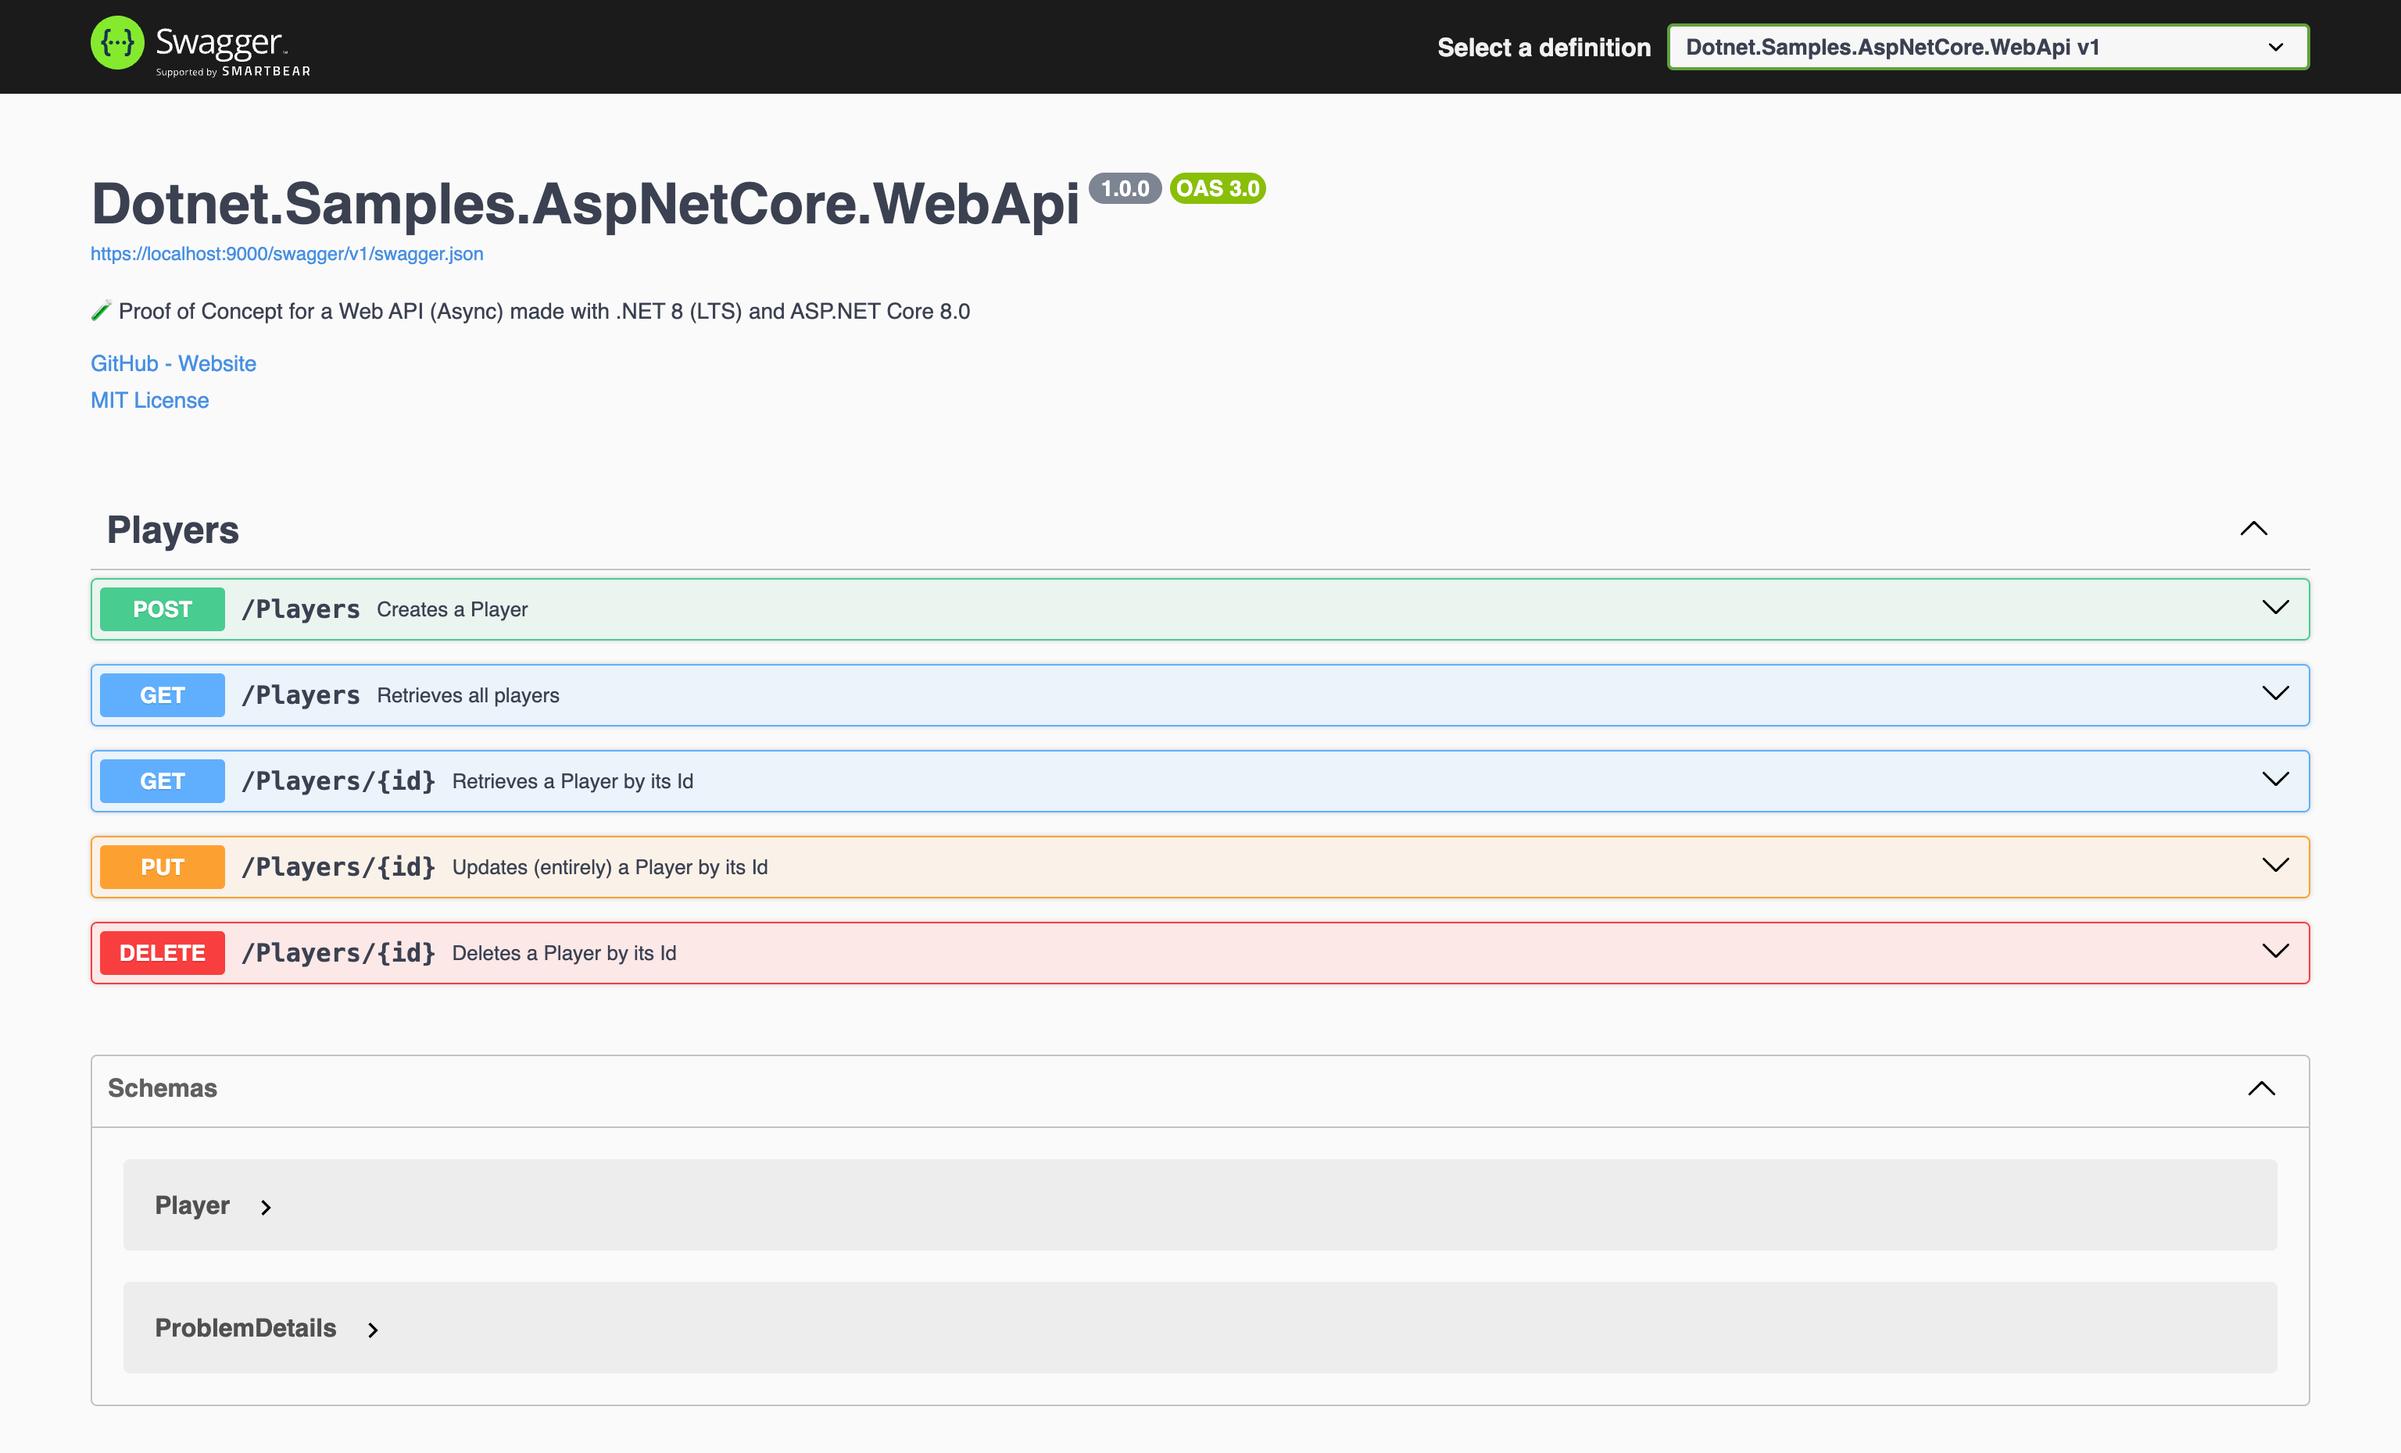
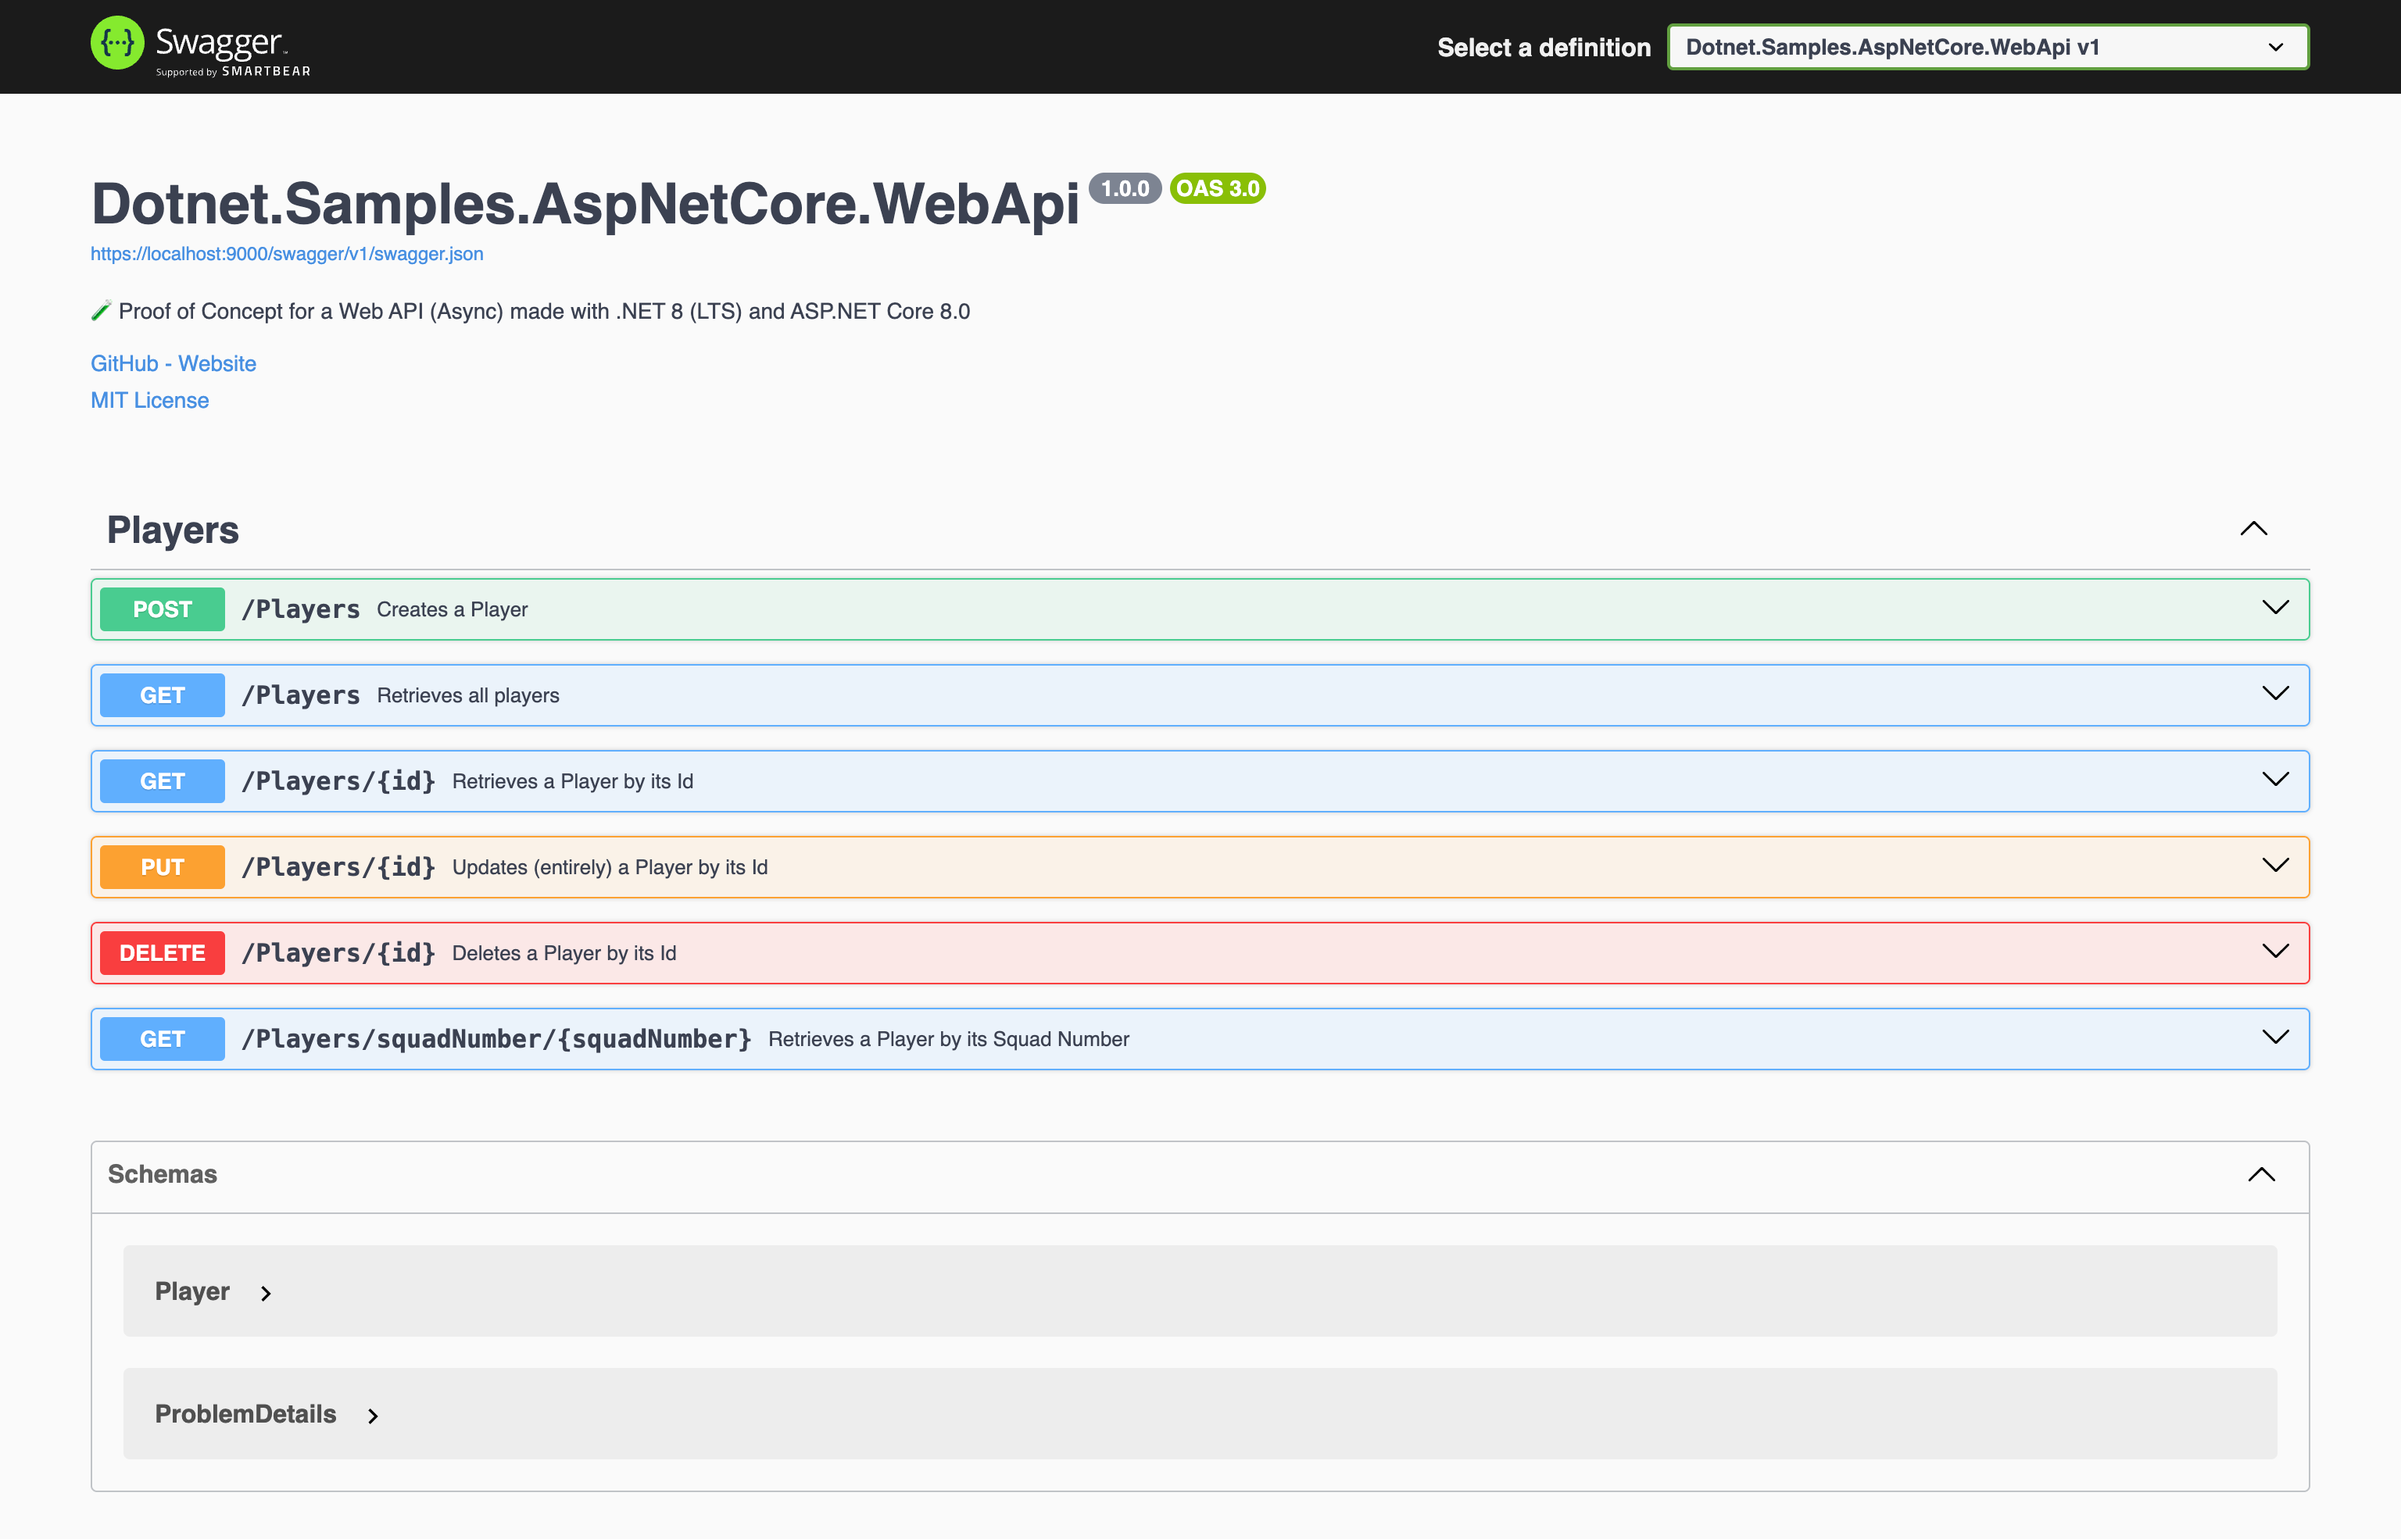
feat: new endpoint to get Player by Squad Number

diff --git a/Dotnet.Samples.AspNetCore.WebApi.Tests/PlayerServiceTests.cs b/Dotnet.Samples.AspNetCore.WebApi.Tests/PlayerServiceTests.cs
@@ -109,7 +109,25 @@ public class PlayerServiceTests : IDisposable
 
     [Fact]
     [Trait("Category", "RetrieveByIdAsync")]
-    public async Task GivenRetrieveByIdAsync_WhenInvokedWithPlayerId_ThenShouldReturnThePlayer()
+    public async Task GivenRetrieveByIdAsync_WhenInvokedWithNonexistentId_ThenShouldReturnNull()
+    {
+        // Arrange
+        var id = 999;
+        var logger = PlayerMocks.LoggerMock<PlayerService>();
+        var memoryCache = PlayerMocks.MemoryCacheMock(It.IsAny<object>());
+
+        var service = new PlayerService(_dbContext, logger.Object, memoryCache.Object);
+
+        // Act
+        var result = await service.RetrieveByIdAsync(id);
+
+        // Assert
+        result.Should().BeNull();
+    }
+
+    [Fact]
+    [Trait("Category", "RetrieveByIdAsync")]
+    public async Task GivenRetrieveByIdAsync_WhenInvokedWithExistingId_ThenShouldReturnPlayer()
     {
         // Arrange
         var player = PlayerData.CreateOneByIdFromStarting11(10);
@@ -119,7 +137,44 @@ public class PlayerServiceTests : IDisposable
         var service = new PlayerService(_dbContext, logger.Object, memoryCache.Object);
 
         // Act
-        var result = await service.RetrieveByIdAsync(10);
+        var result = await service.RetrieveByIdAsync(player.Id);
+
+        // Assert
+        result.Should().BeOfType<Player>();
+        result.Should().BeEquivalentTo(player);
+    }
+
+    [Fact]
+    [Trait("Category", "RetrieveBySquadNumberAsync")]
+    public async Task GivenRetrieveBySquadNumberAsync_WhenInvokedWithNonexistentSquadNumber_ThenShouldReturnNull()
+    {
+        // Arrange
+        var squadNumber = 999;
+        var logger = PlayerMocks.LoggerMock<PlayerService>();
+        var memoryCache = PlayerMocks.MemoryCacheMock(It.IsAny<object>());
+
+        var service = new PlayerService(_dbContext, logger.Object, memoryCache.Object);
+
+        // Act
+        var result = await service.RetrieveBySquadNumberAsync(squadNumber);
+
+        // Assert
+        result.Should().BeNull();
+    }
+
+    [Fact]
+    [Trait("Category", "RetrieveBySquadNumberAsync")]
+    public async Task GivenRetrieveBySquadNumberAsync_WhenInvokedWithExistingSquadNumber_ThenShouldReturnPlayer()
+    {
+        // Arrange
+        var player = PlayerData.CreateOneByIdFromStarting11(6);
+        var logger = PlayerMocks.LoggerMock<PlayerService>();
+        var memoryCache = PlayerMocks.MemoryCacheMock(It.IsAny<object>());
+
+        var service = new PlayerService(_dbContext, logger.Object, memoryCache.Object);
+
+        // Act
+        var result = await service.RetrieveBySquadNumberAsync(player.SquadNumber);
 
         // Assert
         result.Should().BeOfType<Player>();
@@ -158,7 +213,7 @@ public class PlayerServiceTests : IDisposable
 
     [Fact]
     [Trait("Category", "DeleteAsync")]
-    public async Task GivenDeleteAsync_WhenInvokedWithPlayerId_ThenShouldRemovePlayerFromContextAndRemovePlayersCache()
+    public async Task GivenDeleteAsync_WhenInvokedWithId_ThenShouldRemovePlayerFromContextAndRemovePlayersCache()
     {
         // Arrange
         var player = PlayerData.CreateOneNew();

diff --git a/Dotnet.Samples.AspNetCore.WebApi.Tests/PlayerControllerTests.cs b/Dotnet.Samples.AspNetCore.WebApi.Tests/PlayerControllerTests.cs
@@ -177,6 +177,59 @@ public class PlayerControllerTests
         response?.Value.Should().BeEquivalentTo(player);
     }
 
+    [Fact]
+    [Trait("Category", "GetBySquadNumberAsync")]
+    public async Task GivenGetBySquadNumberAsync_WhenServiceRetrieveBySquadNumberAsyncReturnsNull_ThenResponseStatusCodeShouldBe404NotFound()
+    {
+        // Arrange
+        var service = new Mock<IPlayerService>();
+        service
+            .Setup(service => service.RetrieveBySquadNumberAsync(It.IsAny<int>()))
+            .ReturnsAsync(null as Player);
+        var logger = PlayerMocks.LoggerMock<PlayersController>();
+
+        var controller = new PlayersController(service.Object, logger.Object);
+
+        // Act
+        var response = await controller.GetBySquadNumberAsync(It.IsAny<int>()) as NotFound;
+
+        // Assert
+        service.Verify(
+            service => service.RetrieveBySquadNumberAsync(It.IsAny<int>()),
+            Times.Exactly(1)
+        );
+        response.Should().NotBeNull().And.BeOfType<NotFound>();
+        response?.StatusCode.Should().Be(StatusCodes.Status404NotFound);
+    }
+
+    [Fact]
+    [Trait("Category", "GetBySquadNumberAsync")]
+    public async Task GivenGetBySquadNumberAsync_WhenServiceRetrieveBySquadNumberAsyncReturnsPlayer_ThenResponseStatusCodeShouldBe200Ok()
+    {
+        // Arrange
+        var player = PlayerData.CreateOneByIdFromStarting11(10);
+        var service = new Mock<IPlayerService>();
+        service
+            .Setup(service => service.RetrieveBySquadNumberAsync(It.IsAny<int>()))
+            .ReturnsAsync(player);
+        var logger = PlayerMocks.LoggerMock<PlayersController>();
+
+        var controller = new PlayersController(service.Object, logger.Object);
+
+        // Act
+        var response = await controller.GetBySquadNumberAsync(It.IsAny<int>()) as Ok<Player>;
+
+        // Assert
+        service.Verify(
+            service => service.RetrieveBySquadNumberAsync(It.IsAny<int>()),
+            Times.Exactly(1)
+        );
+        response.Should().NotBeNull().And.BeOfType<Ok<Player>>();
+        response?.StatusCode.Should().Be(StatusCodes.Status200OK);
+        response?.Value.Should().NotBeNull().And.BeOfType<Player>();
+        response?.Value.Should().BeEquivalentTo(player);
+    }
+
     /* -------------------------------------------------------------------------
      * HTTP PUT
      * ---------------------------------------------------------------------- */

diff --git a/Dotnet.Samples.AspNetCore.WebApi/Controllers/PlayersController.cs b/Dotnet.Samples.AspNetCore.WebApi/Controllers/PlayersController.cs
@@ -96,6 +96,29 @@ public class PlayersController(IPlayerService playerService, ILogger<PlayersCont
         }
     }
 
+    /// <summary>
+    /// Retrieves a Player by its Squad Number
+    /// </summary>
+    /// <param name="squadNumber">Player.SquadNumber</param>
+    /// <response code="200">OK</response>
+    /// <response code="404">Not Found</response>
+    [HttpGet("squadNumber/{squadNumber}")]
+    [ProducesResponseType<Player>(StatusCodes.Status200OK)]
+    [ProducesResponseType(StatusCodes.Status404NotFound)]
+    public async Task<IResult> GetBySquadNumberAsync([FromRoute] int squadNumber)
+    {
+        var player = await _playerService.RetrieveBySquadNumberAsync(squadNumber);
+
+        if (player != null)
+        {
+            return TypedResults.Ok(player);
+        }
+        else
+        {
+            return TypedResults.NotFound();
+        }
+    }
+
     /* -------------------------------------------------------------------------
      * HTTP PUT
      * ---------------------------------------------------------------------- */

diff --git a/Dotnet.Samples.AspNetCore.WebApi/Services/PlayerService.cs b/Dotnet.Samples.AspNetCore.WebApi/Services/PlayerService.cs
@@ -76,9 +76,16 @@ public class PlayerService : IPlayerService
         }
     }
 
-    public ValueTask<Player?> RetrieveByIdAsync(long id)
+    public async ValueTask<Player?> RetrieveByIdAsync(long id)
     {
-        return _playerContext.Players.FindAsync(id);
+        return await _playerContext.Players.FindAsync(id);
+    }
+
+    public async ValueTask<Player?> RetrieveBySquadNumberAsync(int squadNumber)
+    {
+        return await _playerContext.Players.FirstOrDefaultAsync(player =>
+            player.SquadNumber == squadNumber
+        );
     }
 
     /* -------------------------------------------------------------------------

diff --git a/Dotnet.Samples.AspNetCore.WebApi/Services/IPlayerService.cs b/Dotnet.Samples.AspNetCore.WebApi/Services/IPlayerService.cs
@@ -10,6 +10,8 @@ public interface IPlayerService
 
     public ValueTask<Player?> RetrieveByIdAsync(long id);
 
+    public ValueTask<Player?> RetrieveBySquadNumberAsync(int squadNumber);
+
     public Task UpdateAsync(Player player);
 
     public Task DeleteAsync(long id);
